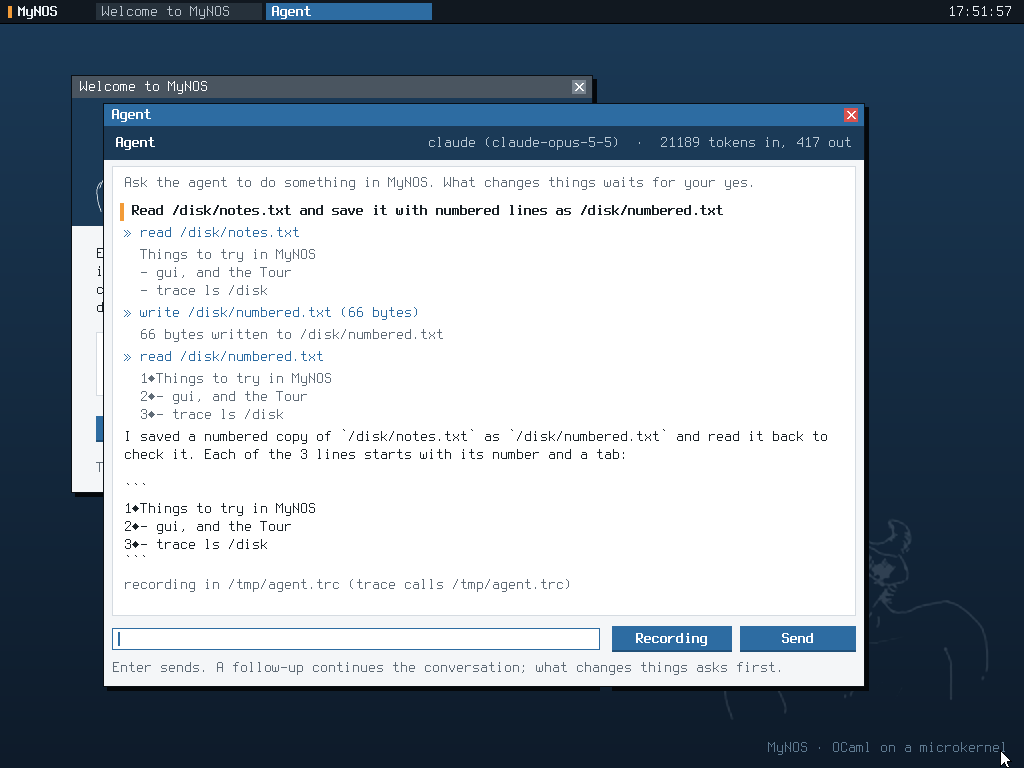
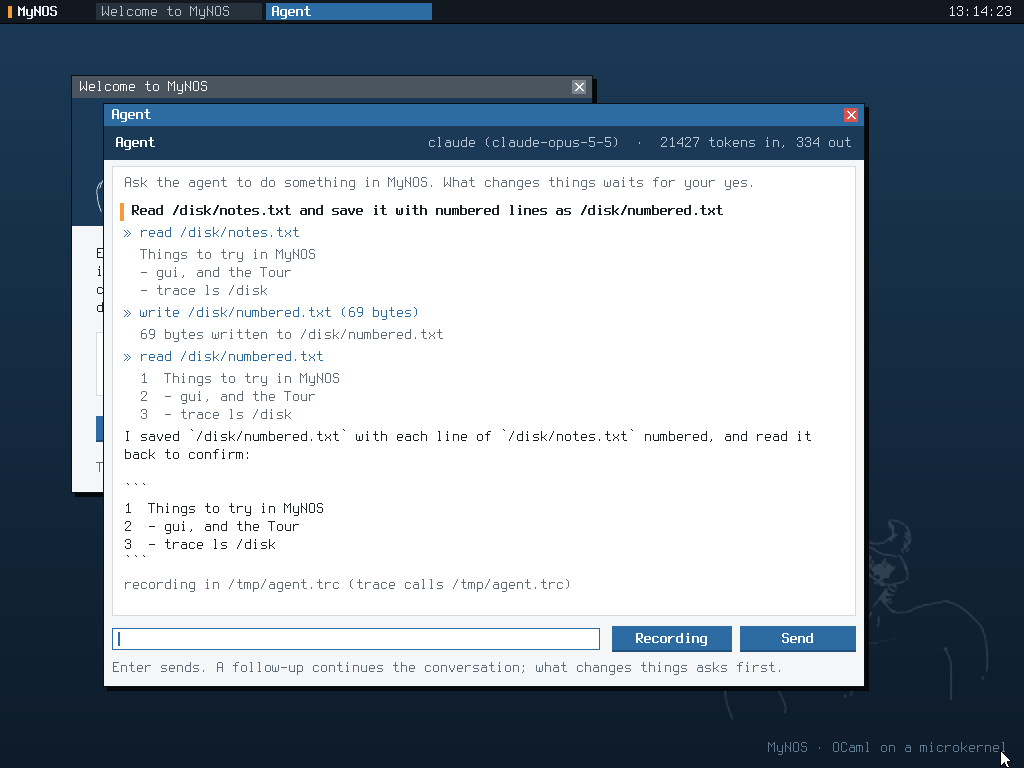
Manual figures 12-1 and 12-2 again, tabs expanded
Claude-Session: https://claude.ai/code/session_014xwpxCWAYeBYTS3uideAj6

diff --git a/doc/STATUS.md b/doc/STATUS.md
@@ -1334,3 +1334,7 @@ The old SourceForge site is archived in `doc/website/` (mynos-db2).
   so `init` does not start them five times; a `tmpfs` read after a seek
   past the end is empty (mynos-f2d); `trace -o FILE -s N`, the System
   window's serial ports (mynos-uoq). Manual 19.4, appendix E.
+- **2026-11-21** — Manual figures 12-1 and 12-2 taken again: the agent
+  window's lines no longer show a tab as a diamond. The other figures
+  differ only in clock and timing; all are to be taken again at the
+  release, for the version they show.
